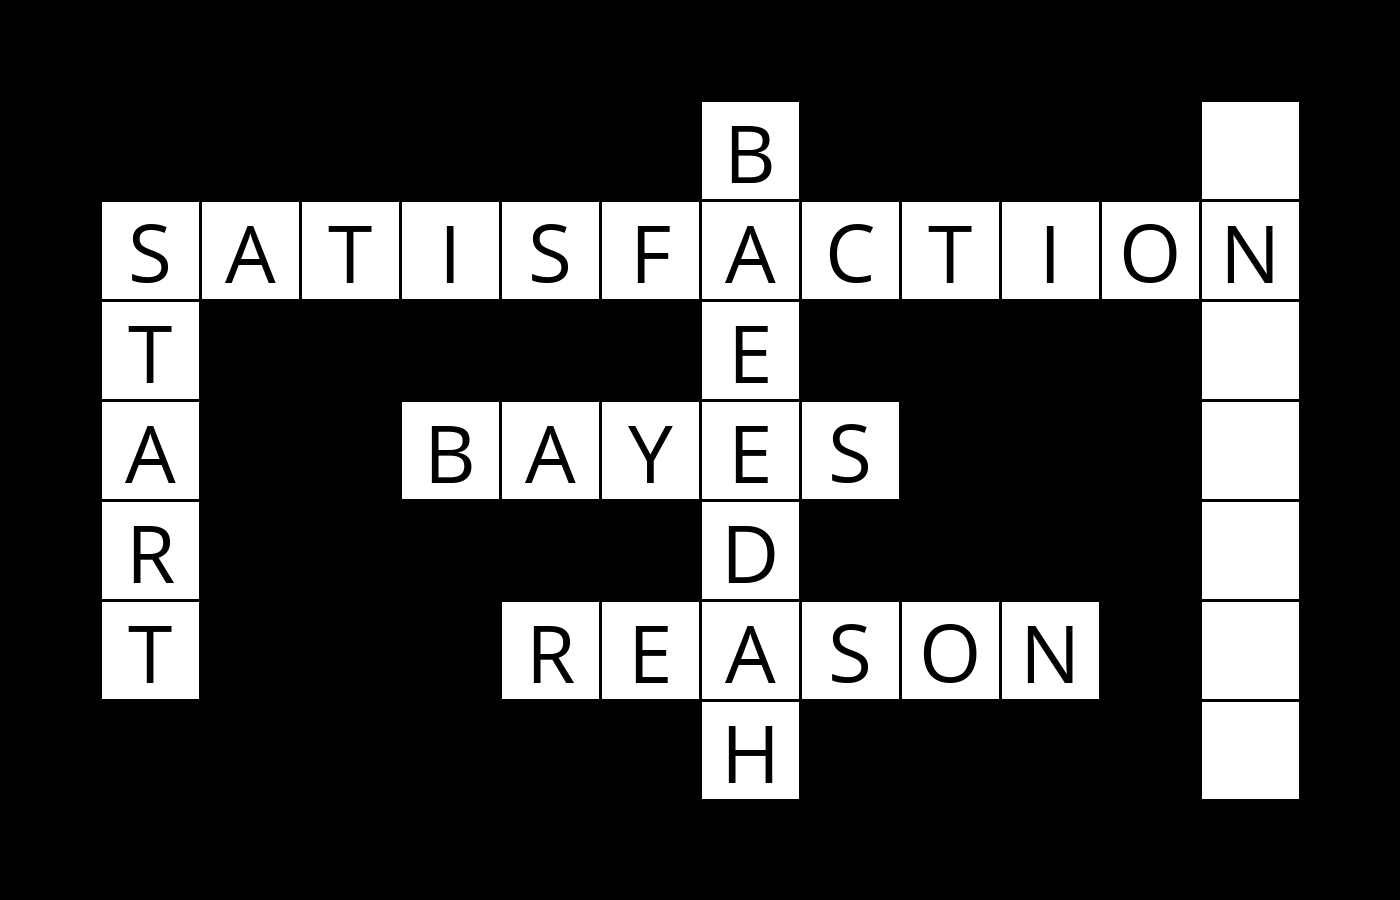
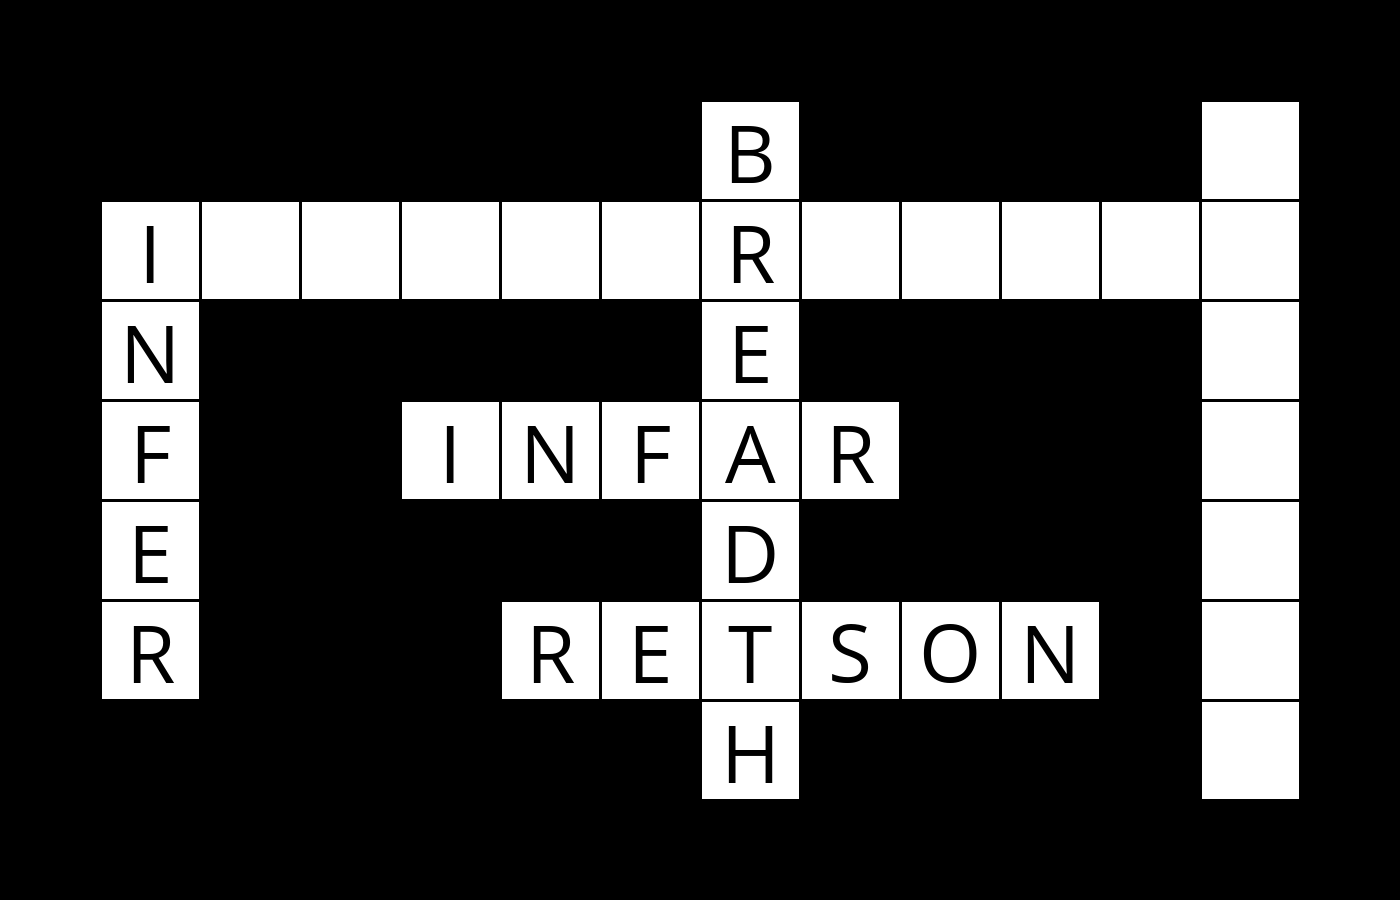
Removing the words form the domain but getting No solution

diff --git a/project3/crossword/generate.py b/project3/crossword/generate.py
@@ -119,8 +119,8 @@ class CrosswordCreator():
 
         elements_to_remove = []  # Create a list to store elements to be removed
 
-        # making sure that every value in a variable’s domain has the same number of letters as the variable’s length.
-
+        # Unary constraint: making sure that every value in a variable’s domain
+        # has the same number of letters as the variable’s length.
         for v, words in domains_cpy_items:
             for w in words:
                 if len(w) != v.length:
@@ -135,55 +135,71 @@ class CrosswordCreator():
 
     def revise(self, x, y, domain_cpy):
         """
+        x and y will both be Variable objects representing variables in the puzzle.
+
+        :return The function should return True if a revision was made to the domain of x;
+        otherwise return False
+
         Make variable `x` arc consistent with variable `y`.
         To do so, remove values from `self.domains[x]` for which there is no
         possible corresponding value for `y` in `self.domains[y]`.
 
-        Return True if a revision was made to the domain of `x`; return
-        False if no revision was made.
         """
-        revision_made = False
-
-        def satisfies_constraint(x, y):
-            """
-            x is arc consistent with y when every value in the domain of x has a possible value
-            in the domain of y that does not cause a conflict. (A conflict in the context of the crossword puzzle
-            is a square for which two variables disagree on what character value it should take on.)
-            :param word:
-            :param y:
-            :return:
-            """
-
-            # Finding corresponding possible values of x in the domain of y
-            if x in self.domains[y]:
-                # TODO: What correct role here an overlap plays? get the overlap, if any, between two variables.
-                """
-                if len(self.crossword.overlaps(x, y)) == 0:
-                    return False
-                """
-                return True
-            else:
-                return False
 
         """
         To make x arc consistent with y, you’ll want to remove any value from the domain of x 
         that does not have a corresponding possible value in the domain of y.
         """
-        if not satisfies_constraint(x, y):
-            if len(self.domains[x]) > 0:
-                self.domains[x].pop()
-                revision_made = True
-                # Find the variable and note to the self.variables_constraints
-                # that this variable contains a word that it is constraining
-                if x in self.variables_constraints:
-                    self.variables_constraints[x] += 1
-                else:
-                    self.variables_constraints[x] = 1
+        # TODO: What correct role here an overlap plays? get the overlap, if any, between two variables.
+        print("self.crossword.overlaps")
+        print(self.crossword.overlaps)
 
-        # constraints update: make the pairs from the constraint
-        self.constraints = create_all_pairs_from_list(self.variables_constraints)
+        if self.crossword.overlaps[(x, y)] is None:
+            return False
+        else:
+            self.solve_conflicting_chars(x, y, self.crossword.overlaps[(x, y)])
 
-        return revision_made
+            # Find the variable and note to the self.variables_constraints
+            # that this variable contains a word that it is constraining
+            if x in self.variables_constraints:
+                self.variables_constraints[x] += 1
+            else:
+                self.variables_constraints[x] = 1
+            # constraints update: make the pairs from the constraint
+            self.constraints = create_all_pairs_from_list(self.variables_constraints)
+            return True
+
+    def solve_conflicting_chars(self, x, y, overlap):
+        """
+        remove any value from the domain of x that does not have
+        #  a corresponding possible value in the domain of y.
+
+        :param x:
+        :param y:
+        :param overlap:
+        :return:
+        """
+        print("x, y:")
+        print(x, y)
+
+        print(self.domains[x])
+        print(self.domains[y])
+        print(overlap)
+        
+        # TODO: Somehow identify the word that is causing the conflict
+        x_words_list = list(self.domains[x])
+        y_words_list = list(self.domains[y])
+
+        for i in range(len(x_words_list)):
+            for j in range(len(y_words_list)):
+                if not x_words_list[i][overlap[0]] == y_words_list[j][overlap[1]]:
+                    # not equal => needs to be removed
+                    # TODO: Should be somehow removed from x???
+                    print("print(self.domains) before and after update after finding non-equal words")
+                    print(self.domains)
+                    if x_words_list[i] in self.domains[x]:
+                        self.domains[x].remove(x_words_list[i])
+                    print(self.domains)
 
     def ac3(self, arcs=None):
         """
@@ -198,10 +214,8 @@ class CrosswordCreator():
         queue = set()
 
         if arcs is None:
-
             self.list_of_variables = list(self.domains.keys())
             queue = create_all_pairs_from_list(self.list_of_variables)
-
         else:
             for arc in arcs:
                 queue.add(arc)
